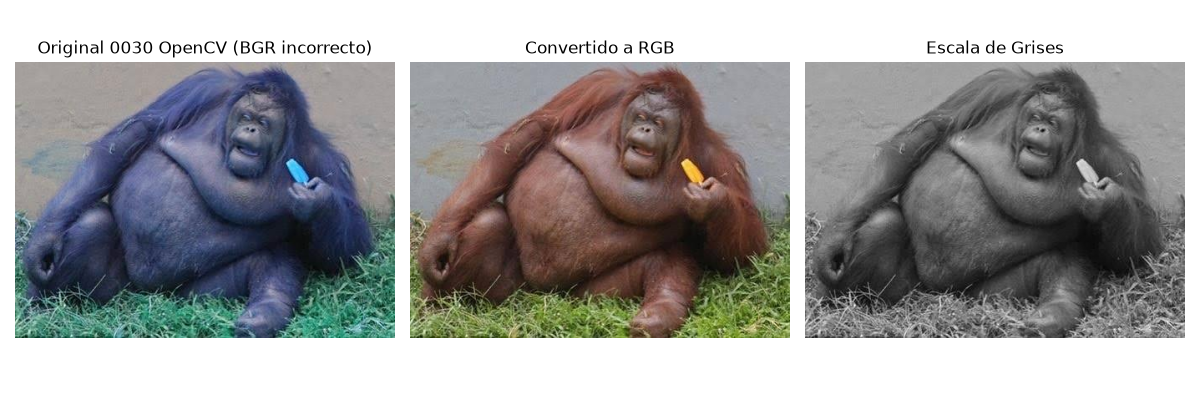
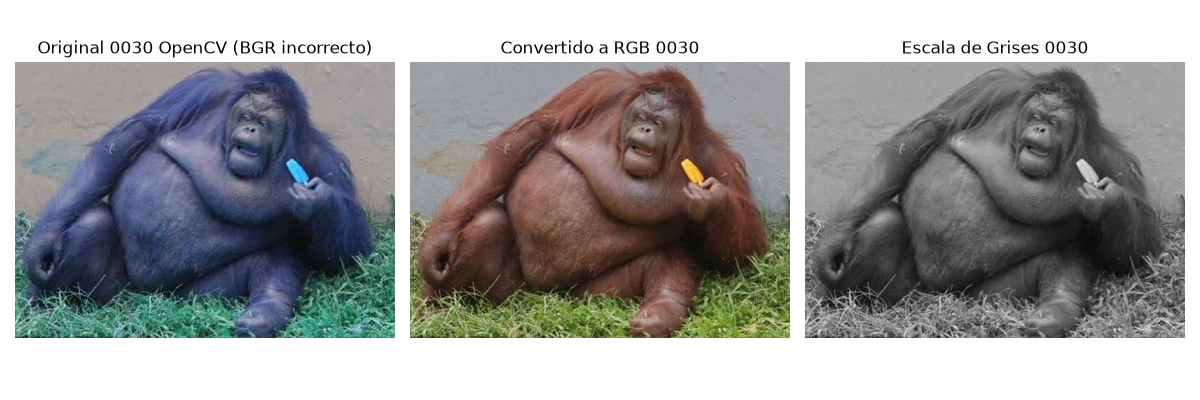
Add files via upload

Changed region(s): [[0.74, 0.09, 0.925, 0.15], [0.4008, 0.09, 0.5858, 0.15]]

diff --git a/p7-orangutan-0030.py b/p7-orangutan-0030.py
@@ -19,10 +19,10 @@ axes[0].imshow(img_bgr)
 axes[0].set_title("Original 0030 OpenCV (BGR incorrecto)")
 
 axes[1].imshow(img_rgb)
-axes[1].set_title("Convertido a RGB")
+axes[1].set_title("Convertido a RGB 0030")
 
 axes[2].imshow(img_gray, cmap='gray')
-axes[2].set_title("Escala de Grises")
+axes[2].set_title("Escala de Grises 0030")
 
 for ax in axes:
     ax.axis('off')
